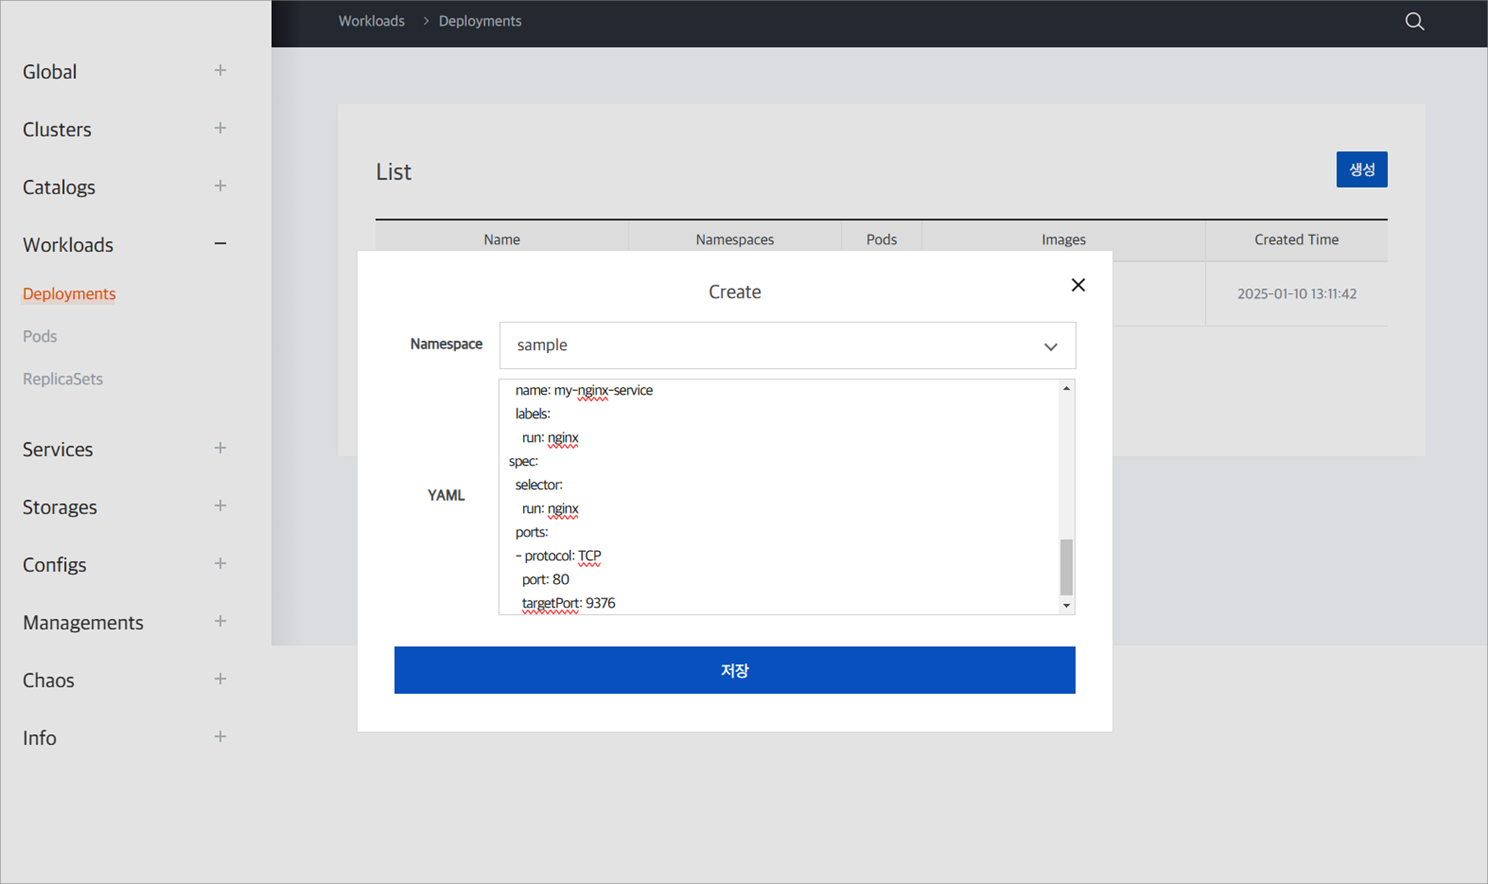
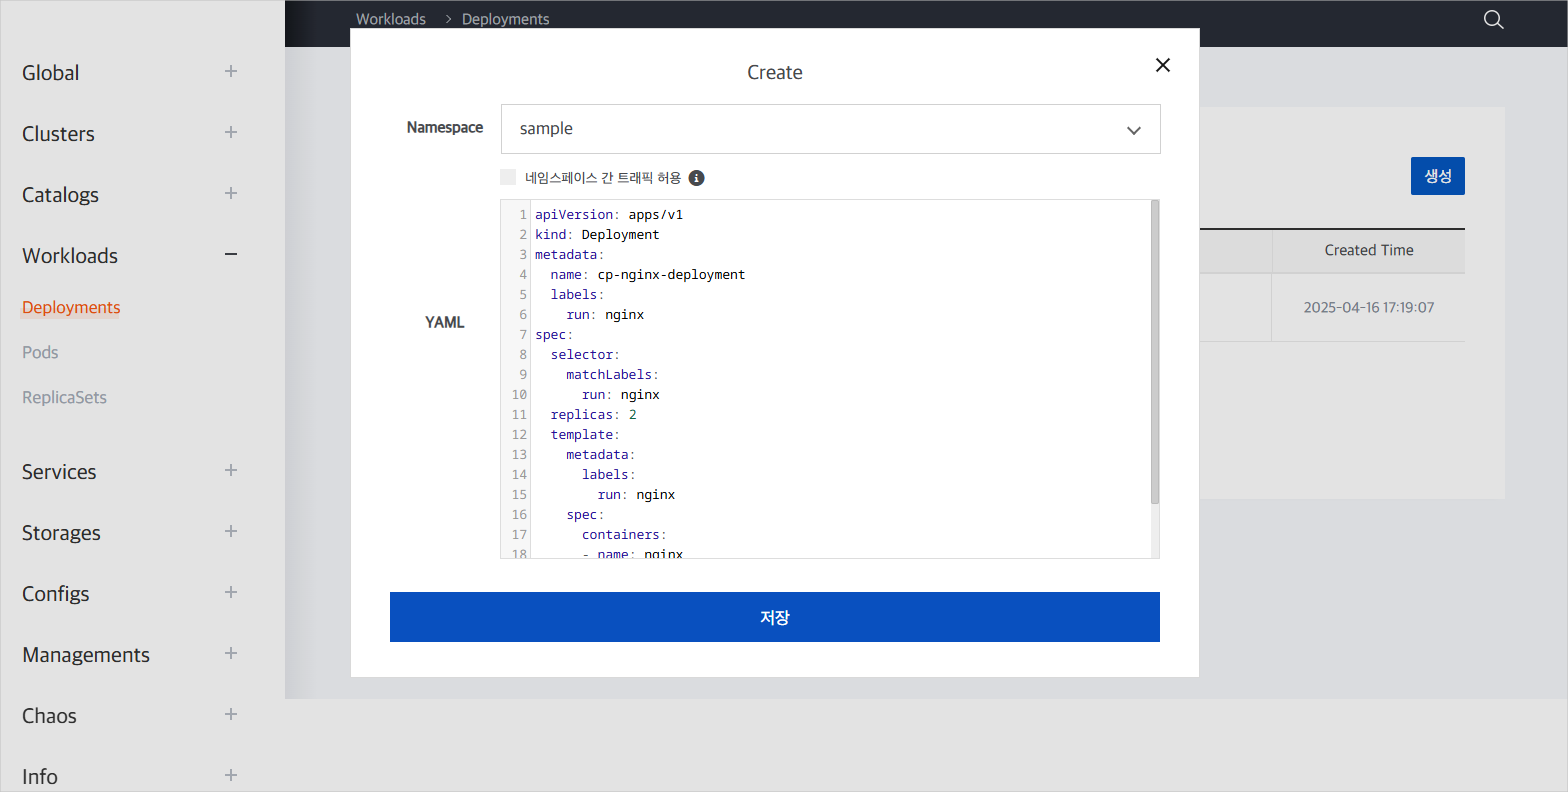
Update guide for v1.6.1

diff --git a/use-guide/portal/cp-portal-use-guide-workloads.md b/use-guide/portal/cp-portal-use-guide-workloads.md
@@ -28,6 +28,32 @@
 
 
 ## <div id='1'/> 1. Workloads 메뉴
+K-PaaS 표준 모델로 설치한 Single 클라우드 배포(기본설치)의 경우, Kyverno 기반의 네트워크 격리 정책이 기본으로 적용되어 있다.
+이 정책에 따라 네임스페이스 간 Pod 트래픽 통신은 기본적으로 차단된다. 다만 특정 서비스 간의 상호 통신이 필요한 경우, 이를 허용하기 위한 별도의 설정이 필요하다.
+
+#### 네임스페이스 간 통신 허용 방법
+현재 네트워크 정책은 네임스페이스 간 통신을 기본적으로 차단하지만, Pod에 특정 라벨이 있을 경우 통신이 가능하다.
+-  `cp-role=shared`
+   + 해당 라벨이 설정되어 있어야 타 네임스페이스와의 통신 가능
+   + 라벨이 없으면, 정책에 따라 통신 차단
+
+#### 포털 UI에서 설정하는 방법
+Workloads 메뉴에서 Deployment, ReplicaSet, Pod를 생성할 때, 아래 기능을 통해 라벨을 자동으로 추가할 수 있다.
+
+##### 설정 방법
+1. 리소스 목록 화면에서 [생성] 버튼 클릭
+2. "네임스페이스 간 트래픽 허용" 체크박스 선택
+3. 리소스를 생성하면 Pod에 `cp-role=shared` 라벨이 자동으로 추가
+
+![IMG_3_4_1]
+
+##### 확인 방법
+리소스 생성 후, Pod 상세 화면의 Labels 항목에서 라벨이 정상적으로 추가되었는지 확인할 수 있다.
+
+![IMG_3_4_2]
+
+<br>
+
 ### <div id='1-1'/> 1.1. Deployments
 #### <div id='1-1-1'/> 1.1.1. Deployment 목록 조회
 - Workloads의 Deployments를 클릭하여 Deployment 목록 페이지로 이동한다.
@@ -140,3 +166,5 @@
 [IMG_3_3_3]:../images/portal/IMG_3_3_3.png
 [IMG_3_3_4]:../images/portal/IMG_3_3_4.png
 [IMG_3_3_5]:../images/portal/IMG_3_3_5.png
+[IMG_3_4_1]:../images/portal/IMG_3_4_1.png
+[IMG_3_4_2]:../images/portal/IMG_3_4_2.png

diff --git a/install-guide/pipeline/cp-pipeline-standalone-guide.md b/install-guide/pipeline/cp-pipeline-standalone-guide.md
@@ -101,7 +101,7 @@ data-cp-pipeline-postgresql-postgresql-0   Bound    pvc-f61096ac-5e2b-4105-9ed3-
 > 멀티 클러스터 환경의 경우 컨테이너 플랫폼 포털 배포 시 **Cluster1**로 지정했던 클러스터에서 진행한다.
 
 + 컨테이너 플랫폼 파이프라인 Deployment 파일 다운로드 :  
-  [cp-pipeline-deployment-v1.6.0.tar.gz](https://nextcloud.k-paas.org/index.php/s/QZcw7ALyL7ReQmn/download)
+  [cp-pipeline-deployment-v1.6.1.tar.gz](https://nextcloud.k-paas.org/index.php/s/r8qWAadGoAHNcBn/download)
 
 ```bash
 # Deployment 파일 다운로드 경로 생성
@@ -109,13 +109,13 @@ $ mkdir -p ~/workspace/container-platform
 $ cd ~/workspace/container-platform
 
 # Deployment 파일 다운로드 및 파일 경로 확인
-$ wget --content-disposition https://nextcloud.k-paas.org/index.php/s/QZcw7ALyL7ReQmn/download
+$ wget --content-disposition https://nextcloud.k-paas.org/index.php/s/r8qWAadGoAHNcBn/download
 
 $ ls ~/workspace/container-platform
-  cp-pipeline-deployment-v1.6.0.tar.gz ...
+  cp-pipeline-deployment-v1.6.1.tar.gz ...
   
 # Deployment 파일 압축 해제
-$ tar -xvf cp-pipeline-deployment-v1.6.0.tar.gz
+$ tar -xvf cp-pipeline-deployment-v1.6.1.tar.gz
 ```
 
 - Deployment 파일 디렉토리 구성

diff --git a/install-guide/source-control/cp-source-control-standalone-guide.md b/install-guide/source-control/cp-source-control-standalone-guide.md
@@ -74,7 +74,7 @@
 > 멀티 클러스터 환경의 경우 컨테이너 플랫폼 포털 배포 시 **Cluster1**로 지정했던 클러스터에서 진행한다.
 
 + 컨테이너 플랫폼 소스 컨트롤 Deployment 파일 다운로드 :  
-  [cp-source-control-deployment-v1.6.0.tar.gz](https://nextcloud.k-paas.org/index.php/s/dkfdTd6zttpi3T2/download)
+  [cp-source-control-deployment-v1.6.1.tar.gz](https://nextcloud.k-paas.org/index.php/s/faHjJRM7tiyLTBj/download)
 
 ```bash
 # Deployment 파일 다운로드 경로 생성
@@ -82,13 +82,13 @@ $ mkdir -p ~/workspace/container-platform
 $ cd ~/workspace/container-platform
 
 # Deployment 파일 다운로드 및 파일 경로 확인
-$ wget --content-disposition https://nextcloud.k-paas.org/index.php/s/dkfdTd6zttpi3T2/download
+$ wget --content-disposition https://nextcloud.k-paas.org/index.php/s/faHjJRM7tiyLTBj/download
 
 $ ls ~/workspace/container-platform
-  cp-source-control-deployment-v1.6.0.tar.gz ...
+  cp-source-control-deployment-v1.6.1.tar.gz ...
   
 # Deployment 파일 압축 해제
-$ tar -xvf cp-source-control-deployment-v1.6.0.tar.gz
+$ tar -xvf cp-source-control-deployment-v1.6.1.tar.gz
 ```
 
 - Deployment 파일 디렉토리 구성

diff --git a/use-guide/pipeline/cp-pipeline-use-guide.md b/use-guide/pipeline/cp-pipeline-use-guide.md
@@ -119,17 +119,8 @@
 # <div id='2'/> 2. 컨테이너 플랫폼 파이프라인 접속
 ## <div id='2-1'/> 2.1. 컨테이너 플랫폼 파이프라인 접속 설명
 컨테이너 플랫폼 파이프라인에 접속한다.<br><br>
-1. **컨테이너 플랫폼 파이프라인 URL** : `http://pipeline.${HOST_DOMAIN}`
+**컨테이너 플랫폼 파이프라인 URL** : `http://pipeline.${HOST_DOMAIN}`
 + [[컨테이너 플랫폼 파이프라인 변수 정의]](../../install-guide/pipeline/cp-pipeline-standalone-guide.md#3.2) 에서 정의한 `HOST_DOMAIN` 값 입력
-
-2. 컨테이너 플랫폼 파이프라인 접속 초기 정보를 확인한 후 파이프라인에 로그인한다.
-	> 초기 계정정보는 아래 명령어를 통해 확인
-	```
-	$ kubectl get configmap -n cp-portal cp-portal-configmap -o yaml | grep KEYCLOAK_ADMIN
-	```
- 
-    ![image](../images/pipeline/IMG_2_1_1.png)
-    ![image](../images/pipeline/IMG_2_1_2.png)
 
 <br>
 

diff --git a/use-guide/portal/container-platform-portal-guide.md b/use-guide/portal/container-platform-portal-guide.md
@@ -90,10 +90,10 @@
 ### 1. Keycloak Admin 계정 정보 조회
 Keycloak Admin 계정 정보는 아래 명령어를 통해 확인한다.
 ```bash
-# Keycloak Admin 계정 조회
-$ kubectl get cm cp-portal-configmap -n cp-portal -o yaml | grep KEYCLOAK_ADMIN
-KEYCLOAK_ADMIN_USERNAME: ********* (Username)
-KEYCLOAK_ADMIN_PASSWORD: ********* (Password)
+# Keycloak Admin Username 조회
+$ kubectl get secret cp-portal-secret -n cp-portal -o jsonpath="{.data.KEYCLOAK_ADMIN_USERNAME}" | base64 -d; echo
+# Keycloak Admin Password 조회
+$ kubectl get secret cp-portal-secret -n cp-portal -o jsonpath="{.data.KEYCLOAK_ADMIN_PASSWORD}" | base64 -d; echo
 ```
 
 <br>
